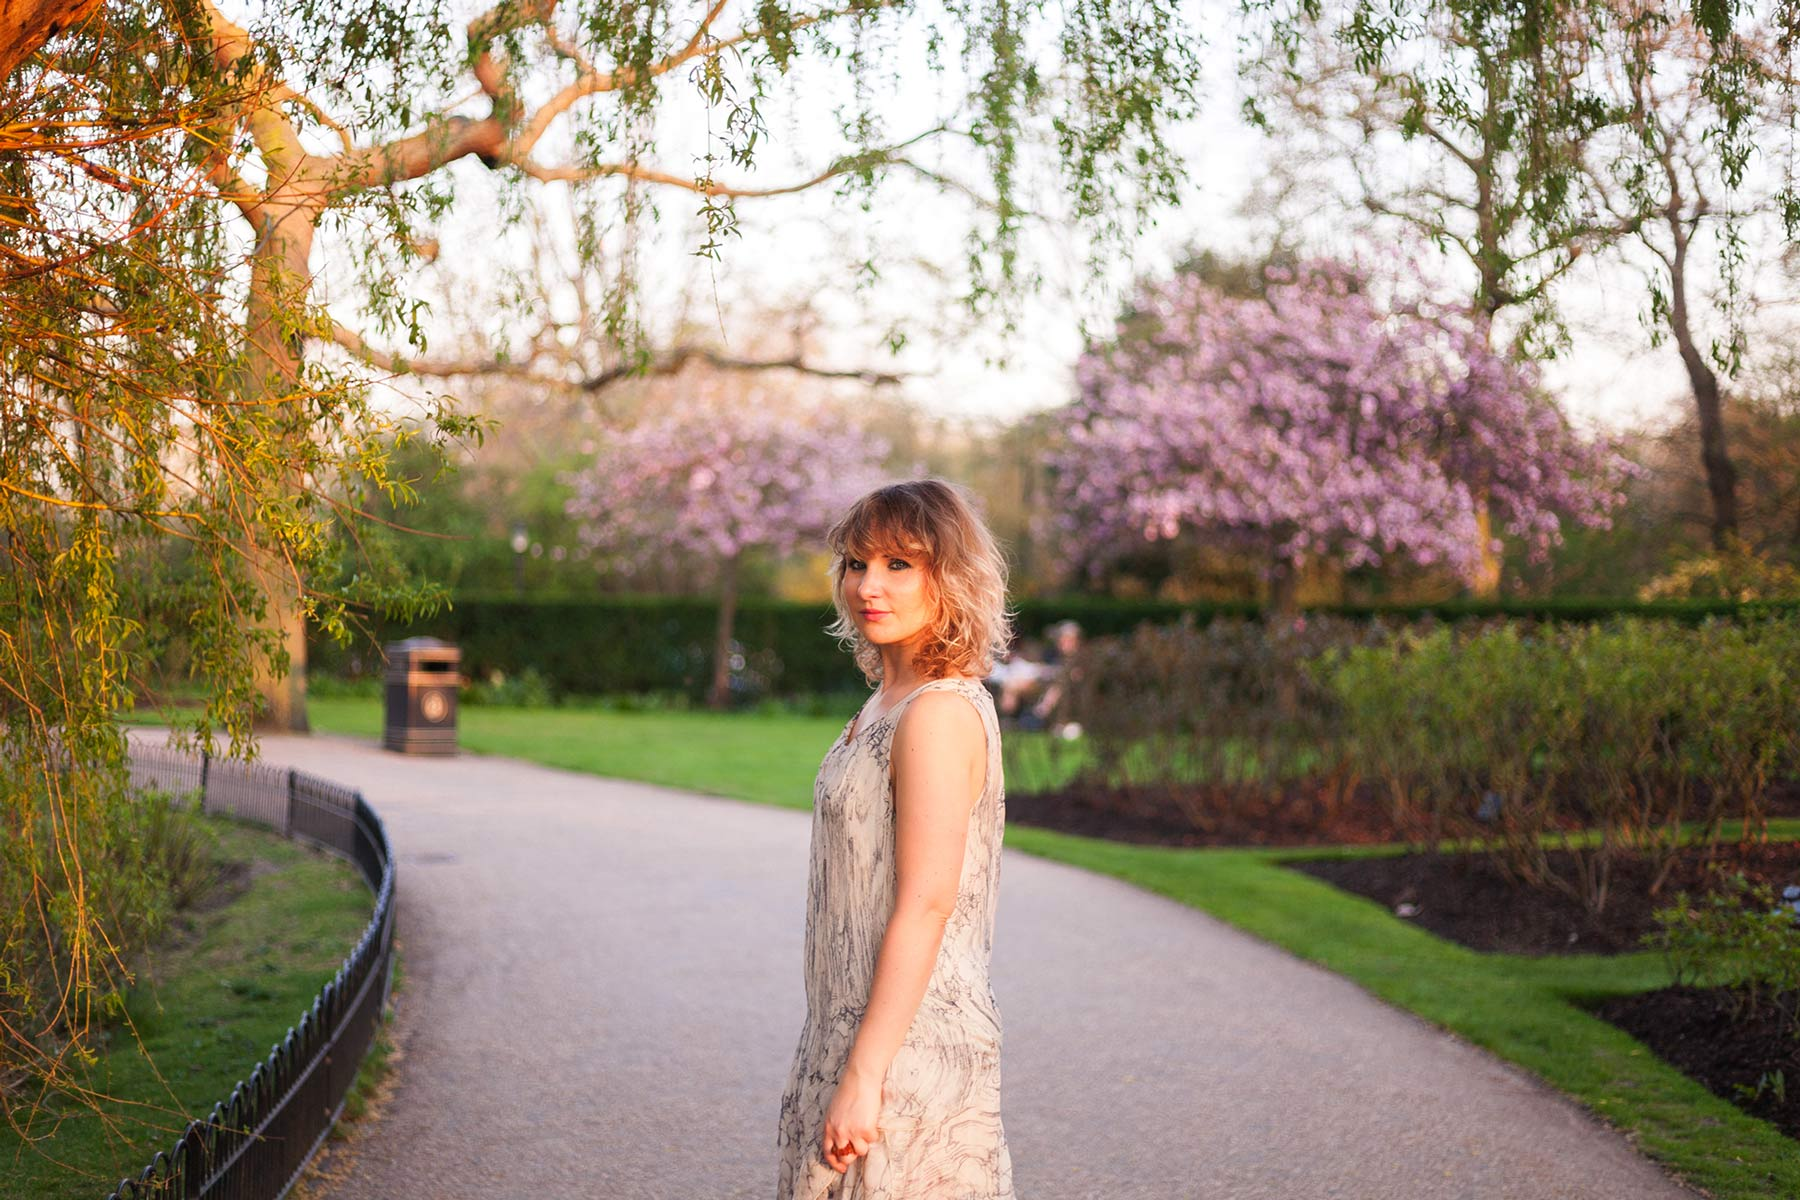
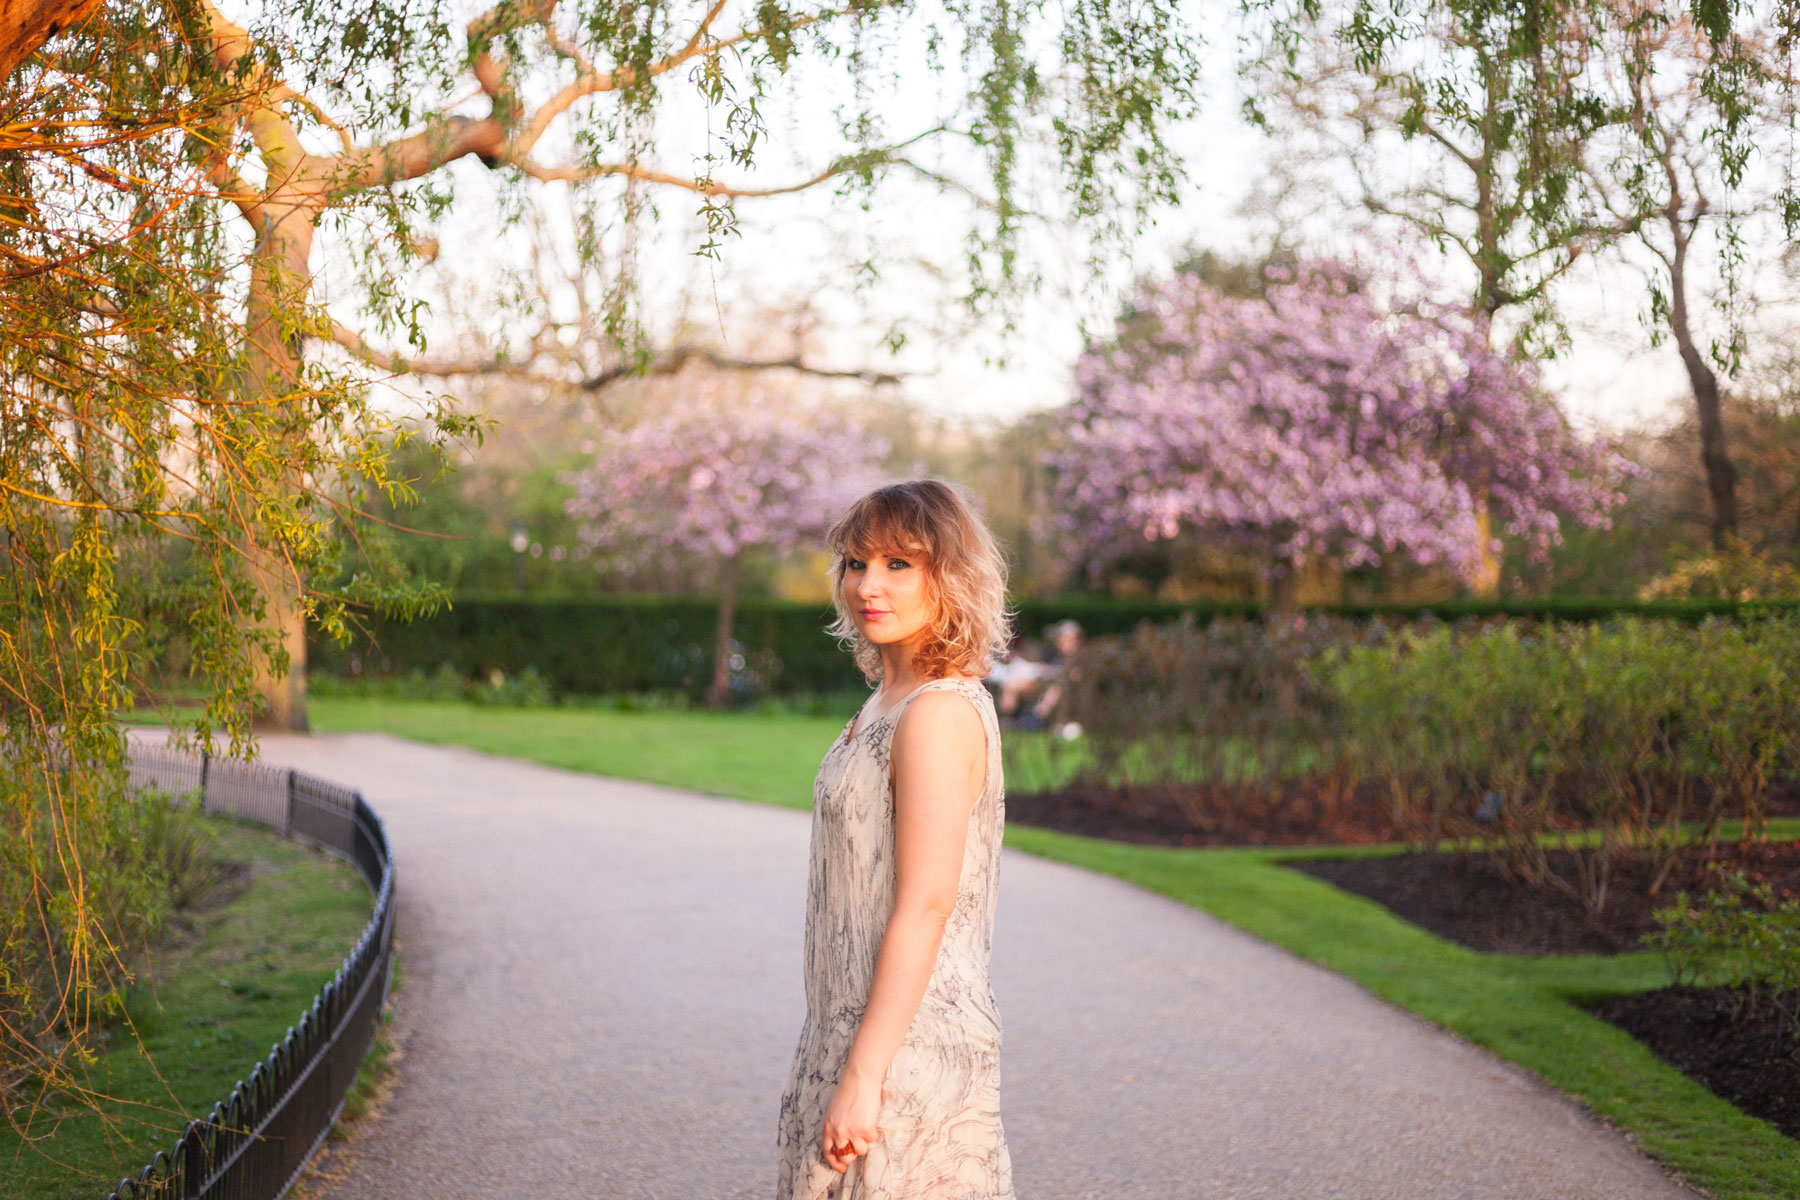
photo retouching

diff --git a/css/about.css b/css/about.css
@@ -29,7 +29,7 @@ body .about {
   -webkit-box-flex: 1;
       -ms-flex: 1;
           flex: 1;
-  background-image: url('./img/content/portrait.jpg');
+  background-image: url('./img/content/portrait3.jpg');
   background-size: cover;
   background-position: center;
 }
